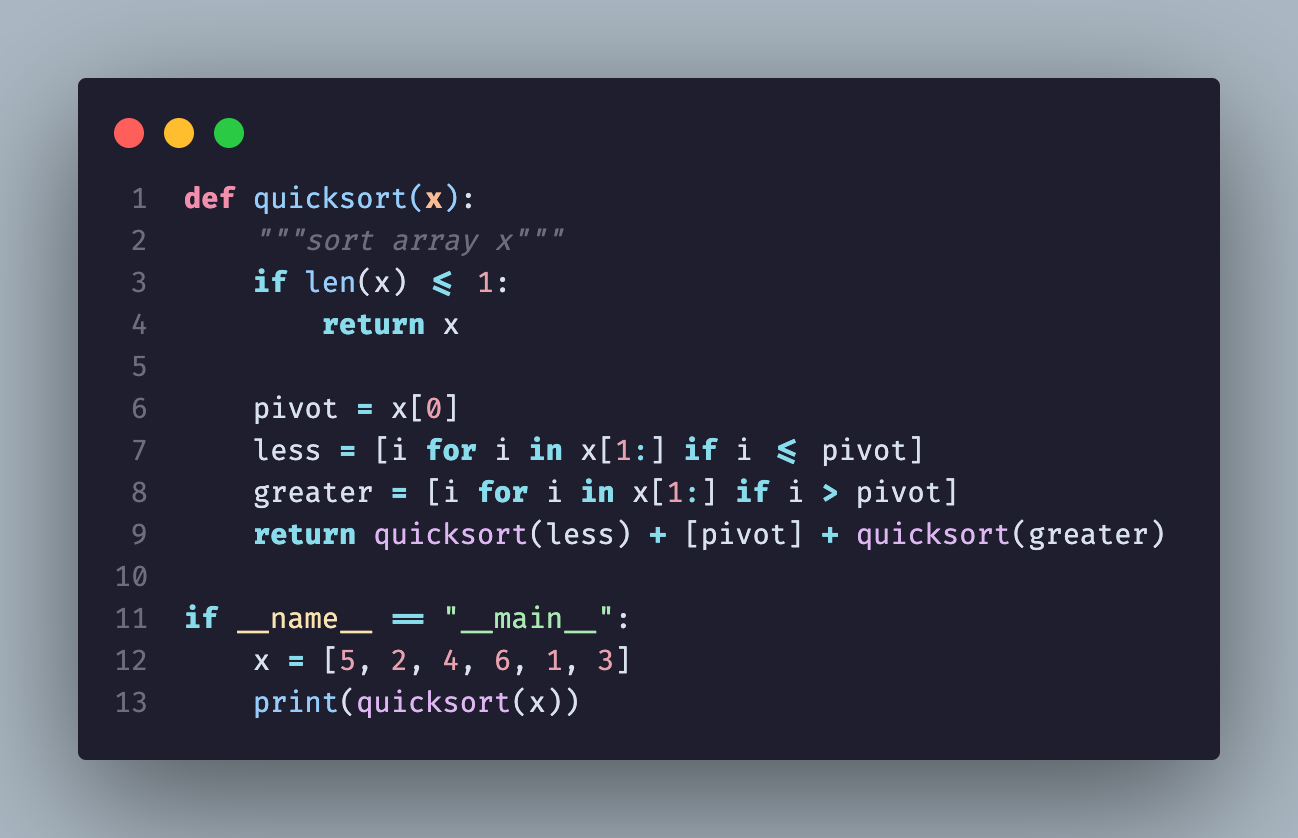
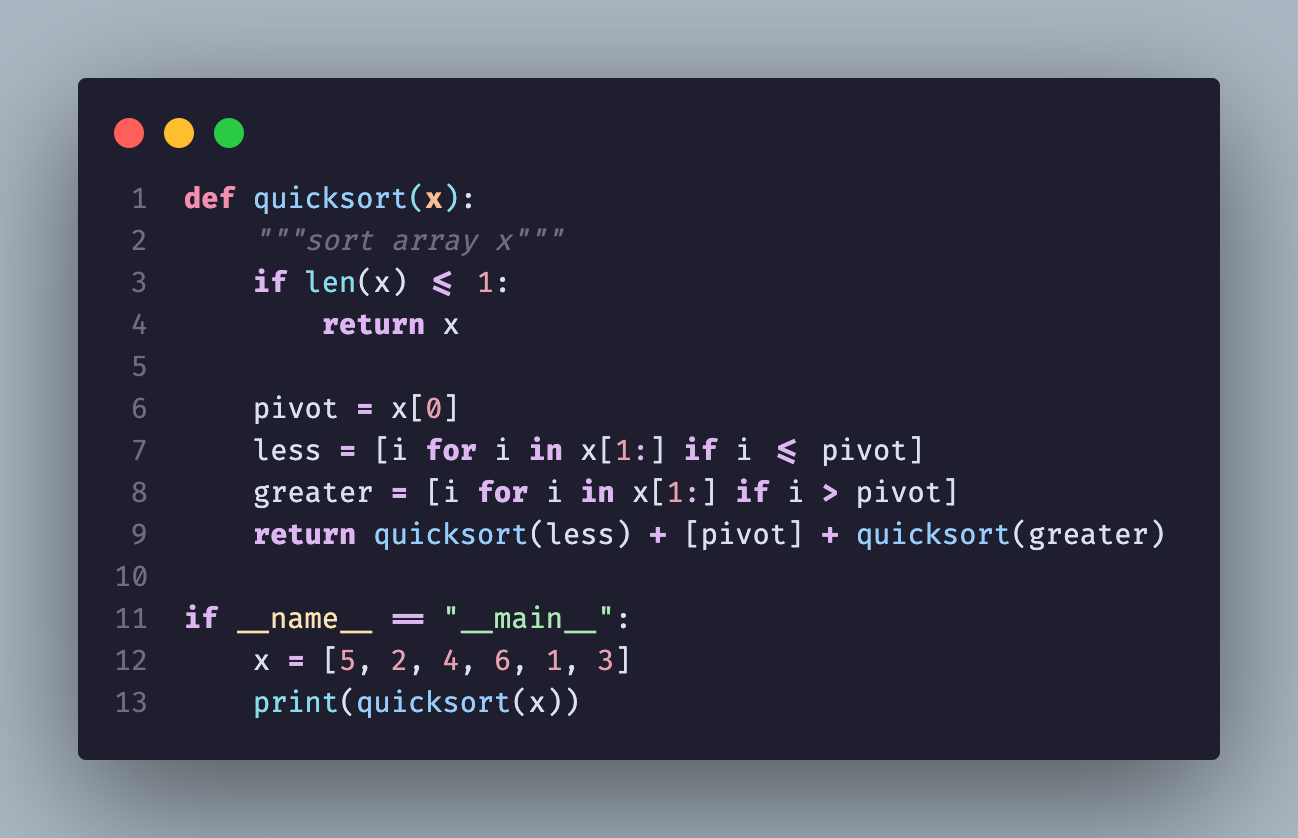
update screenshots and changelog

diff --git a/CHANGELOG.md b/CHANGELOG.md
@@ -4,6 +4,10 @@ All notable changes to the "catppuccin-noctis" extension will be documented in t
 
 Check [Keep a Changelog](http://keepachangelog.com/) for recommendations on how to structure this file.
 
+## 0.4.3
+
+- minor tweaks to some tokens
+
 ## 0.4.2
 
 - update JSON keys punctuation to lavender
